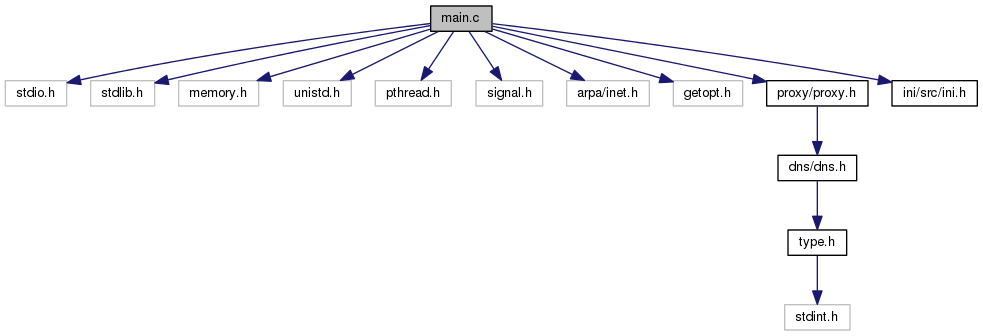
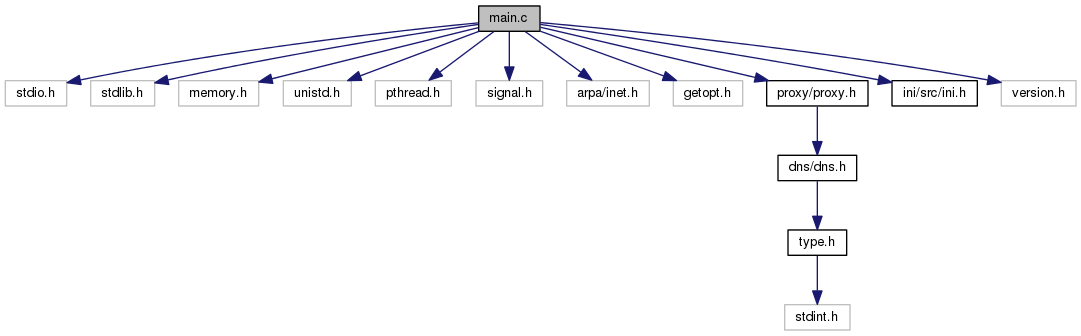
Deploy Ranihilator/dns_proxy to github.com/Ranihilator/dns_proxy.git:gh-pages

diff --git a/html/main_8c.html b/html/main_8c.html
@@ -76,6 +76,7 @@ $(function() {
 <code>#include &lt;getopt.h&gt;</code><br />
 <code>#include &quot;<a class="el" href="proxy_8h_source.html">proxy/proxy.h</a>&quot;</code><br />
 <code>#include &quot;<a class="el" href="ini_8h_source.html">ini/src/ini.h</a>&quot;</code><br />
+<code>#include &quot;version.h&quot;</code><br />
 </div><div class="textblock"><div class="dynheader">
 Include dependency graph for main.c:</div>
 <div class="dyncontent">
